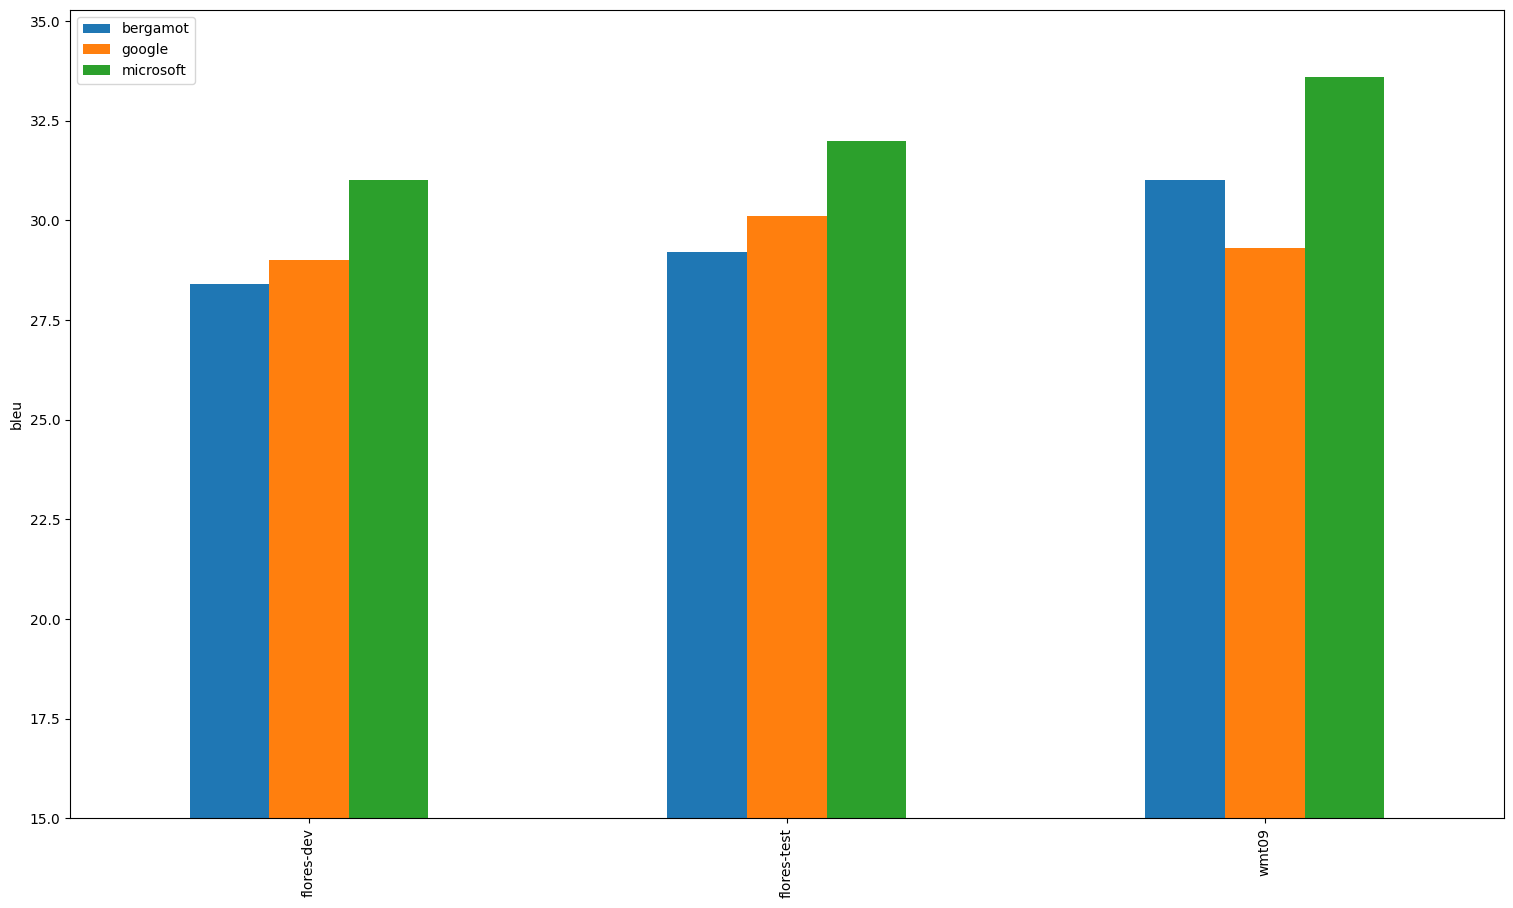
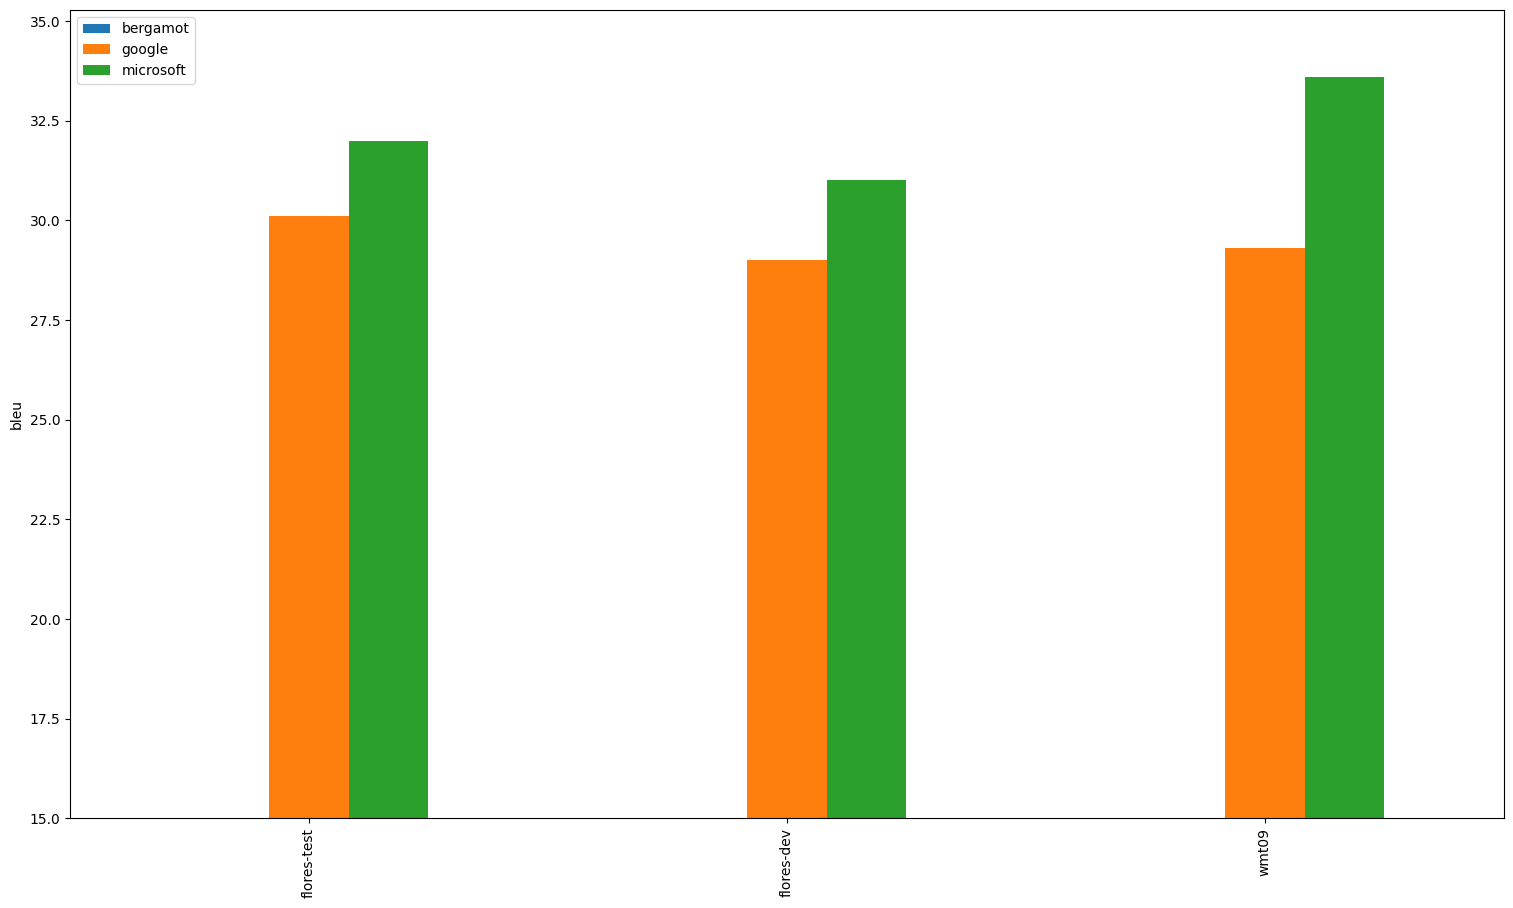
Update evaluation results [skip ci]

diff --git a/evaluation/prod/results.md b/evaluation/prod/results.md
@@ -57,11 +57,11 @@ Both absolute and relative differences in BLEU scores between Bergamot and other
 
 ## avg
 
-| Translator/Dataset | es-en | nb-en | bg-en | pt-en | it-en | et-en | en-cs | cs-en | de-en | en-es | en-pt | en-et | en-bg | en-de |
-| --- | --- | --- | --- | --- | --- | --- | --- | --- | --- | --- | --- | --- | --- | --- |
-| bergamot | 32.38 | 37.60 | 38.50 | 44.87 | 32.67 | 32.37 | 24.65 | 30.34 | 33.51 | 32.41 | 49.85 | 25.50 | 42.10 | 32.27 |
-| google | 33.64 (+1.27, +3.91%) | 42.05 (+4.45, +11.84%) | 41.30 (+2.80, +7.27%) | 46.60 (+1.73, +3.86%) | 34.50 (+1.83, +5.59%) | 35.80 (+3.43, +10.61%) | 26.73 (+2.09, +8.47%) | 32.40 (+2.06, +6.80%) | 35.98 (+2.48, +7.39%) | 34.74 (+2.32, +7.17%) | 53.75 (+3.90, +7.82%) | 28.60 (+3.10, +12.16%) | 44.60 (+2.50, +5.94%) | 33.05 (+0.77, +2.40%) |
-| microsoft | 32.93 (+0.56, +1.72%) | 42.90 (+5.30, +14.10%) | 41.20 (+2.70, +7.01%) | 46.47 (+1.60, +3.57%) | 34.55 (+1.88, +5.74%) | 36.17 (+3.80, +11.74%) | 27.75 (+3.11, +12.60%) | 33.53 (+3.19, +10.53%) | 38.21 (+4.70, +14.03%) | 33.76 (+1.35, +4.17%) | 50.15 (+0.30, +0.60%) | 28.47 (+2.97, +11.63%) | 38.55 (-3.55, -8.43%) | 33.54 (+1.27, +3.93%) |
+| Translator/Dataset | es-en | nb-en | bg-en | pt-en | it-en | et-en | en-cs | cs-en | en-it | de-en | en-es | en-pt | en-et | en-bg | en-de |
+| --- | --- | --- | --- | --- | --- | --- | --- | --- | --- | --- | --- | --- | --- | --- | --- |
+| bergamot | 32.38 | 37.60 | 38.50 | 44.87 | 32.67 | 32.37 | 24.65 | 30.34 | 29.77 | 33.51 | 32.41 | 49.85 | 25.50 | 42.10 | 32.27 |
+| google | 33.64 (+1.27, +3.91%) | 42.05 (+4.45, +11.84%) | 41.30 (+2.80, +7.27%) | 46.60 (+1.73, +3.86%) | 34.50 (+1.83, +5.59%) | 35.80 (+3.43, +10.61%) | 26.73 (+2.09, +8.47%) | 32.40 (+2.06, +6.80%) | 28.97 (-0.80, -2.69%) | 35.98 (+2.48, +7.39%) | 34.74 (+2.32, +7.17%) | 53.75 (+3.90, +7.82%) | 28.60 (+3.10, +12.16%) | 44.60 (+2.50, +5.94%) | 33.05 (+0.77, +2.40%) |
+| microsoft | 32.93 (+0.56, +1.72%) | 42.90 (+5.30, +14.10%) | 41.20 (+2.70, +7.01%) | 46.47 (+1.60, +3.57%) | 34.55 (+1.88, +5.74%) | 36.17 (+3.80, +11.74%) | 27.75 (+3.11, +12.60%) | 33.53 (+3.19, +10.53%) | 32.30 (+2.53, +8.51%) | 38.21 (+4.70, +14.03%) | 33.76 (+1.35, +4.17%) | 50.15 (+0.30, +0.60%) | 28.47 (+2.97, +11.63%) | 38.55 (-3.55, -8.43%) | 33.54 (+1.27, +3.93%) |
 
 ![Results](img/avg.png)
 
@@ -144,6 +144,16 @@ Both absolute and relative differences in BLEU scores between Bergamot and other
 | microsoft | 33.60 (+3.40, +11.26%) | 30.70 (+2.50, +8.87%) | 34.30 (+3.00, +9.58%) | 29.60 (+2.00, +7.25%) | 39.90 (+4.90, +14.00%) | 30.90 (+2.80, +9.96%) | 38.30 (+4.90, +14.67%) | 33.40 (+3.10, +10.23%) | 27.60 (+0.60, +2.22%) | 26.40 (+1.90, +7.76%) | 40.00 (+4.70, +13.31%) | 40.30 (+5.00, +14.16%) | 29.70 (+3.20, +12.08%) | 34.70 (+2.70, +8.44%) |
 
 ![Results](img/cs-en.png)
+
+## en-it
+
+| Translator/Dataset | flores-dev | flores-test | wmt09 |
+| --- | --- | --- | --- |
+| bergamot | 29.20 | 29.30 | 30.80 |
+| google | 28.50 (-0.70, -2.40%) | 29.60 (+0.30, +1.02%) | 28.80 (-2.00, -6.49%) |
+| microsoft | 31.10 (+1.90, +6.51%) | 32.10 (+2.80, +9.56%) | 33.70 (+2.90, +9.42%) |
+
+![Results](img/en-it.png)
 
 ## de-en
 

diff --git a/evaluation/dev/results.md b/evaluation/dev/results.md
@@ -59,9 +59,9 @@ Both absolute and relative differences in BLEU scores between Bergamot and other
 
 | Translator/Dataset | fa-en | ru-en | en-ru | en-it | en-fa | is-en |
 | --- | --- | --- | --- | --- | --- | --- |
-| bergamot | 28.70 | 33.37 | 30.47 | 29.53 | 17.30 | 23.50 |
-| google | 36.05 (+7.35, +25.61%) | 36.53 (+3.15, +9.45%) | 33.72 (+3.25, +10.67%) | 29.47 (-0.07, -0.23%) | 27.70 (+10.40, +60.12%) | 34.95 (+11.45, +48.72%) |
-| microsoft | 36.15 (+7.45, +25.96%) | 36.87 (+3.50, +10.49%) | 33.68 (+3.21, +10.53%) | 32.20 (+2.67, +9.03%) | 20.50 (+3.20, +18.50%) | 34.90 (+11.40, +48.51%) |
+| bergamot | 28.70 | 33.37 | 30.47 | N/A | 17.30 | 23.50 |
+| google | 36.05 (+7.35, +25.61%) | 36.53 (+3.15, +9.45%) | 33.72 (+3.25, +10.67%) | 29.47 | 27.70 (+10.40, +60.12%) | 34.95 (+11.45, +48.72%) |
+| microsoft | 36.15 (+7.45, +25.96%) | 36.87 (+3.50, +10.49%) | 33.68 (+3.21, +10.53%) | 32.20 | 20.50 (+3.20, +18.50%) | 34.90 (+11.40, +48.51%) |
 
 ![Results](img/avg.png)
 
@@ -97,11 +97,11 @@ Both absolute and relative differences in BLEU scores between Bergamot and other
 
 ## en-it
 
-| Translator/Dataset | flores-dev | flores-test | wmt09 |
+| Translator/Dataset | flores-test | flores-dev | wmt09 |
 | --- | --- | --- | --- |
-| bergamot | 28.40 | 29.20 | 31.00 |
-| google | 29.00 (+0.60, +2.11%) | 30.10 (+0.90, +3.08%) | 29.30 (-1.70, -5.48%) |
-| microsoft | 31.00 (+2.60, +9.15%) | 32.00 (+2.80, +9.59%) | 33.60 (+2.60, +8.39%) |
+| bergamot | N/A | N/A | N/A |
+| google | 30.10 | 29.00 | 29.30 |
+| microsoft | 32.00 | 31.00 | 33.60 |
 
 ![Results](img/en-it.png)
 
